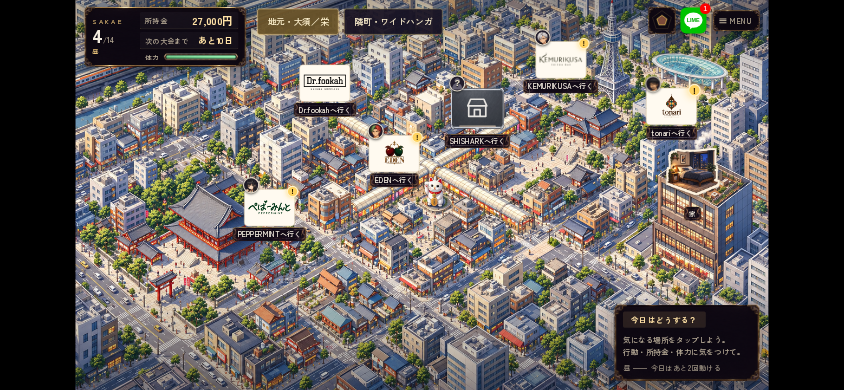
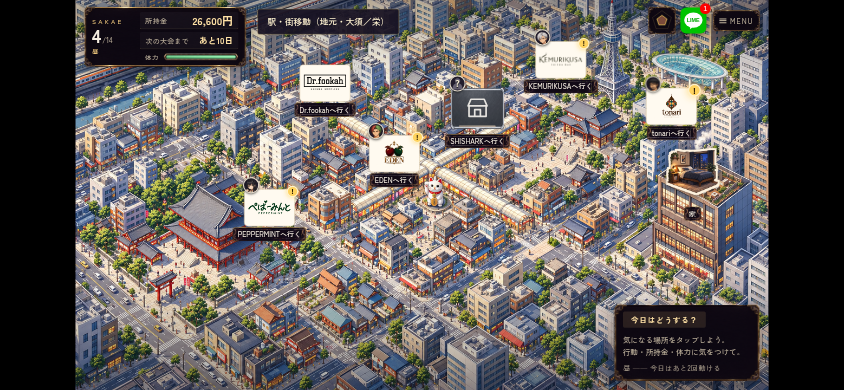
test(ch2): verify photo guests, outing costs and shared city presentation (#921)

diff --git a/remake/js/daily/hud.js b/remake/js/daily/hud.js
@@ -1,3 +1,4 @@
+import { CH2_CITY_EN } from "../core/city-locations.js";
 // 日常パートの常時表示（日付・時間帯・大会までの日数・所持金・体力・スマホ・ステータス）。
 // 見た目は旧版の墨×金を踏襲: 左上に DAY カード、右上に体力・ステータスの五角形・LIME・MENU。
 import { el, yen, sleep } from "../core/util.js";
@@ -121,9 +122,9 @@ export function updateHud() {
   if (!dom || !state) return;
   const widehanga = state.chapter === 2 && state.flags._ch2_region === "widehanga";
   dom.area.dataset.region = widehanga ? "widehanga" : "sakae";
-  dom.area.setAttribute("aria-label", widehanga ? "WIDEHANGA" : "SAKAE");
+  dom.area.setAttribute("aria-label", widehanga ? CH2_CITY_EN : "SAKAE");
   dom.area.replaceChildren(
-    el("span.dc-area-full", { text: widehanga ? "WIDEHANGA" : "SAKAE" }),
+    el("span.dc-area-full", { text: widehanga ? CH2_CITY_EN : "SAKAE" }),
     el("span.dc-area-short", { text: widehanga ? "ワイド" : "SAKAE" }),
   );
   dom.day.replaceChildren(el("b", { text: String(chapterDay(state)) }), el("small", { text: `/${TOURNAMENT_DAY}` }));

diff --git a/remake/README.md b/remake/README.md
@@ -86,14 +86,15 @@
 
 ## 遊び方（ローカル）
 
-本編は第1章クリア画面の「第2章の初日へ」から続けられる。章題→tonariでの出発→隣町の到着→会場確認と任意の店見学→帰路→tonariの夜までを接続した。
+本編は第1章クリア画面の「第2章の初日へ」から続けられる。章題→tonariでの出発→隣町の到着→会場確認と3店への配達・挨拶→帰路→tonariの夜までを接続した。
 所持品・金銭・ステータス・人間関係と交流の記録を引き継ぎ、場面の区切りで自動保存。地図と初日終了画面のMENUから手動3枠のセーブ・ロードもできる。
 経過日数は継続し（通常の第1章DAY14クリアなら通算15日）、表示と県大会の残り日数は「第2章・DAY1／あと13日」。初日終了の「翌日へ」からDAY2〜13を遊べる。地元・隣町を地図で切り替え、昼夜の2行動、店主との相談、地元の交流・バイト・練習・休養・仕入れとLIMEを既存の日常処理で進める。DAY3夜のなるの祝福から、DAY4の事故、DAY5の味覚の違和感、DAY6の残る匂い、DAY7・10〜13のすれ違いと大会前夜へ。DAY14の県大会、結果、東京への出発まで接続済み。東京での第3章本編は未接続。固定の夜は会話ごとに読了保存し、報酬や追加の行動消費はない。
 新しい3店の訪問は既存の通常訪問料3,000円と体力を使い、初回・再訪を分ける。街の切替自体は行動と料金を使わない。未面識なら先に名乗りを読み、あげはの連絡先は初回の相談を読んで交換する。保存・日付・画面の検証は [第2章自由日QA](../docs/qa/ch2-daily/README.md)。
+初日の配達は3店を自由な順で回り、tonariで一度だけ報告する。REIからTRPGバー、あげはから都会の水族館、神崎から刺青可の銭湯を教わると地図に追加される。Dr.fookah 柚ヶ谷店はストロベリーを含む別の品揃え。あげはの店は初回無料プリクラと、再訪時の任意撮影（一人／あげは／実際に在店する面識のある相席相手）がある。神崎が挨拶に来た回では二人の職人プリクラも撮れる。[生成画像と全候補](../asset_sources/ch2-city-issue921/README.md)。
 本編の検証と制限は [第2章初日QA](../docs/qa/ch2-main/README.md)。
 
 第2章の最初の試遊は `http://127.0.0.1:8123/remake/chapter2-preview.html`。
-同じ県内の隣町・ワイドハンガ街で、到着の会話、新しい昼夜マップ、4地点の入口での出会い、3地点の準備中の店内見学、帰路を遊べる。
+同じ県内の隣町・柚ヶ谷（ゆずがや）で、到着の会話、新しい昼夜マップ、4地点の入口での出会い、3地点の準備中の店内見学、帰路を遊べる。
 本編と同じ会話エンジン、あげは・博士の正規立ち絵、神崎・REIの新しい通常立ち絵を使う。
 あげはも第14日のライバルで、店名はオーナー選定のMELTY PUFF（メルティパフ）。ヴォルクは第3章で登場し、第2章の先行展示・店のピン・交流は外した。旧版で会った記録は削除しない。3店の[専用ロゴ](../asset_sources/ch2-store-logos/README.md)を新規生成し、地図と見学前カードへ表示する。
 試遊の進行はページ内だけに保持し、再読み込みで最初へ戻る。
@@ -457,7 +458,7 @@ node remake/test/playthrough.mjs
 
 ## 小さな卓の冒険・短編TRPG
 
-第2章の隣町・ワイドハンガの「ボドゲカフェ」で部活を設立し、好感度MAXの興味がある仲間を対面で勧誘します。入部した仲間を、仕事や先約のない夜に招集して本棚の物語を遊べます。
+第2章の隣町・柚ヶ谷でREIからTRPGバーを教わり、昼はボドゲカフェの同店で部活を設立し、好感度MAXの興味がある仲間を対面で勧誘します。入部した仲間を、仕事や先約のない夜に招集して本棚の物語を遊べます。
 本編は第2章のDAY3まで。初日の街見学後、日常の隣町マップから入店できます。`/remake/trpg-campaign-preview.html` で、設立・勧誘・シフト・購入・少人数・一度きりの結末を本編セーブに触れず試せます。
 タイトルの **BOOKSHELF / 物語の本棚** は保存された所持本と卓の記録を見る専用です。
 「世界一普通の一台」はGMひより、「サメは閉店を待たない」はGMサメちゃん。はじめと、空いているアダム・ひより・つむぎが参加します。
